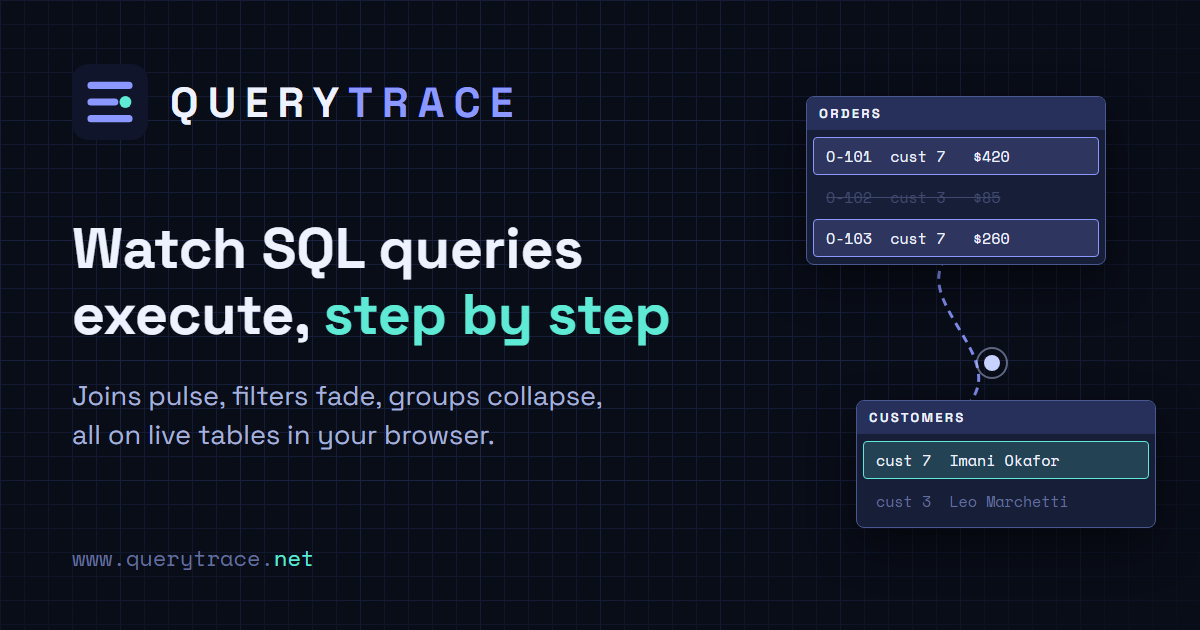
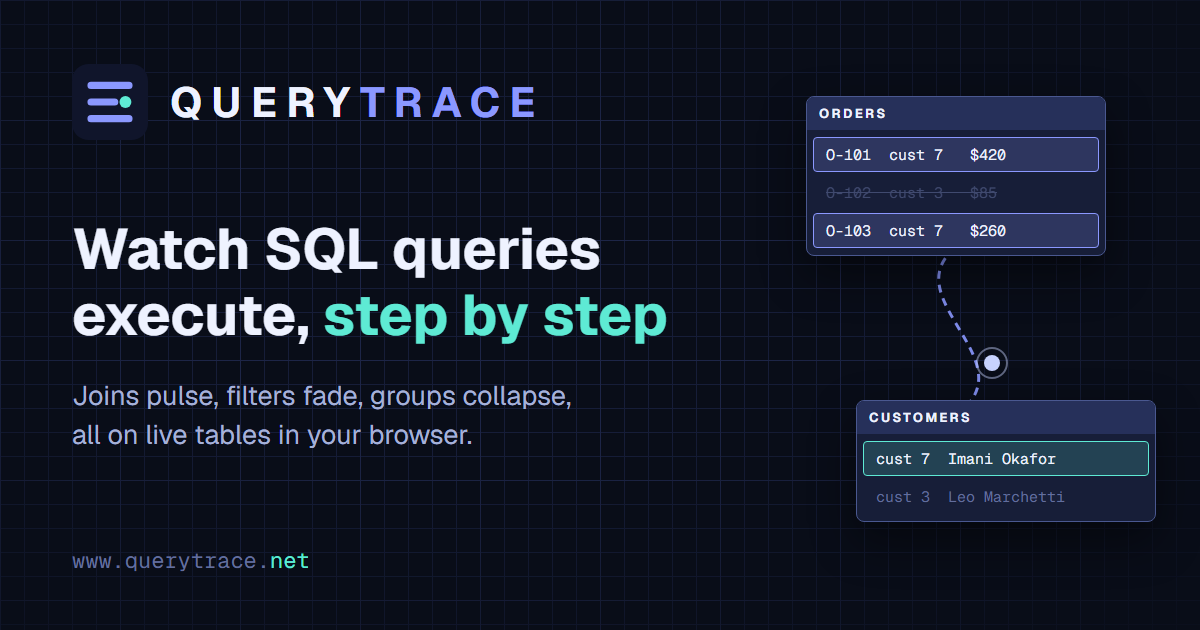
font update

diff --git a/app/page.tsx b/app/page.tsx
@@ -1,5 +1,4 @@
 import Link from 'next/link';
-import localFont from 'next/font/local';
 import type { CSSProperties } from 'react';
 import { LESSONS, type Lesson } from '@/lib/lessons';
 import { schemaById } from '@/lib/schemas';
@@ -7,16 +6,6 @@ import { Hero } from '@/components/landing/Hero';
 import { Reveal } from '@/components/landing/Reveal';
 import PoweredByPlatmatics from '@/components/badge/PoweredByPlatmatics';
 import s from '@/components/landing/landing.module.css';
-
-/* Switzer, self-hosted: the font CSP allows same-origin files only. */
-const text = localFont({
-  src: [
-    { path: '../public/fonts/switzer-400.woff2', weight: '400', style: 'normal' },
-    { path: '../public/fonts/switzer-500.woff2', weight: '500', style: 'normal' },
-  ],
-  variable: '--font-text',
-  display: 'swap',
-});
 
 const REPO_URL = 'https://github.com/twbdavis/querytrace';
 
@@ -50,7 +39,7 @@ function Action({ i }: { i?: number }) {
 export default function LandingPage() {
   const year = new Date().getFullYear();
   return (
-    <div className={`${text.variable} ${s.page}`}>
+    <div className={s.page}>
       <script dangerouslySetInnerHTML={{ __html: "document.documentElement.classList.add('js')" }} />
 
       <header className={s.top}>

diff --git a/components/CodeMirrorInput.tsx b/components/CodeMirrorInput.tsx
@@ -50,7 +50,7 @@ const blueprintTheme = EditorView.theme(
     '&.cm-focused': { outline: 'none' },
     '.cm-scroller': {
       overflow: 'auto',
-      fontFamily: 'var(--font-data), Space Mono, monospace',
+      fontFamily: 'var(--font-data), Geist Mono, monospace',
       lineHeight: '19px',
     },
     '.cm-content': { minHeight: '100%', padding: '10px 0 0', caretColor: accents.active },
@@ -64,7 +64,7 @@ const blueprintTheme = EditorView.theme(
       backgroundColor: surfaces.nodeHeader,
       border: `1px solid ${lines.default}`,
       color: text.primary,
-      fontFamily: 'var(--font-data), Space Mono, monospace',
+      fontFamily: 'var(--font-data), Geist Mono, monospace',
       fontSize: '11px',
     },
     '.cm-tooltip-autocomplete > ul > li[aria-selected]': {

diff --git a/tests/security.spec.ts b/tests/security.spec.ts
@@ -101,7 +101,7 @@ test('production pages and assets carry isolation and content security headers w
   expect(headers['x-content-type-options']).toBe('nosniff');
   expect(headers['x-frame-options']).toBe('DENY');
   expect(headers['strict-transport-security']).toContain('max-age=63072000');
-  for (const path of ['/icon.svg', '/fonts/switzer-400.woff2']) {
+  for (const path of ['/icon.svg', '/.well-known/security.txt']) {
     const asset = await request.get(path);
     expect(asset.ok()).toBe(true);
     expect(asset.headers()['cross-origin-resource-policy']).toBe('same-origin');

diff --git a/app/layout.tsx b/app/layout.tsx
@@ -1,17 +1,15 @@
 import type { Metadata, Viewport } from 'next';
-import { Space_Grotesk, Space_Mono } from 'next/font/google';
+import { Geist, Geist_Mono } from 'next/font/google';
 import './globals.css';
 
-const ui = Space_Grotesk({
+const ui = Geist({
   subsets: ['latin'],
-  weight: ['400', '500', '700'],
   variable: '--font-ui',
   display: 'swap',
 });
 
-const data = Space_Mono({
+const data = Geist_Mono({
   subsets: ['latin'],
-  weight: ['400', '700'],
   variable: '--font-data',
   display: 'swap',
 });

diff --git a/components/landing/join-scene/tableTexture.ts b/components/landing/join-scene/tableTexture.ts
@@ -12,9 +12,9 @@ import type { TableSpec } from './joinData';
  */
 
 export interface Fonts {
-  /** CSS font-family list for data (Space Mono on the site). */
+  /** CSS font-family list for data (Geist Mono on the site). */
   data: string;
-  /** CSS font-family list for UI text (Space Grotesk on the site). */
+  /** CSS font-family list for UI text (Geist on the site). */
   ui: string;
 }
 

diff --git a/components/landing/landing.module.css b/components/landing/landing.module.css
@@ -31,7 +31,7 @@
   padding: 0 var(--edge);
   background: var(--ground);
   color: var(--ink);
-  font-family: var(--font-text), 'Helvetica Neue', Arial, sans-serif;
+  font-family: var(--font-ui), 'Helvetica Neue', Arial, sans-serif;
   font-size: var(--step-body);
   line-height: 1.5;
   letter-spacing: -0.01em;
